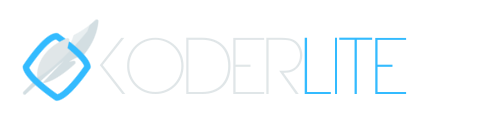
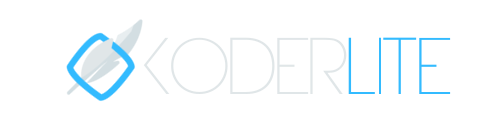
terminando slide 1

diff --git a/public/css/index.css b/public/css/index.css
@@ -1,3 +1,5 @@
+@import url('https://fonts.googleapis.com/css?family=Kavivanar|Bad+Script|Courgette|Kalam|Macondo|Raleway|Josefin+Sans');
+@import url('https://fonts.googleapis.com/css?family=Roboto:300,400,700');
 /*INICIO*/
 .init{
   height: 100vh;
@@ -24,18 +26,53 @@
 
 .sl_1_content h2{
   color:white;
+  font-family: 'Roboto';
+  font-size: 7em;
+  text-transform: uppercase;
+  /*font-weight: bold;*/
 }
 
 .sl_1_content h3{
   color:white;
+  font-family: 'Roboto';
+  font-size: 2em;
+  text-transform: uppercase;
+  padding-bottom: 0px;
+  margin-bottom: 0px;
+  margin-top: -20px;
+
 }
 
 .sl_1_content p{
   color:white;
+  font-family: 'Roboto';
+  font-size: 1.8em;
+  margin-top: 20px;
+  text-transform: uppercase;
+
+}
+.sl_1_content .sl_1_img{
+  margin-bottom: 20px;
+}
+.sl_1_content .sl_1_img img{
+    width: 100%;
+    height: auto;
+    max-width: 500px;
 }
 
-.sl_1_content .sl_img_1{
-    
+.long-shadow {
+  /*display: inline-block;*/
+  -webkit-box-sizing: content-box;
+  -moz-box-sizing: content-box;
+  box-sizing: content-box;
+  padding: 25px;
+  border: none;
+  font: normal 60px/1 "Fredoka One", Helvetica, sans-serif;
+
+  text-align: center;
+  -o-text-overflow: clip;
+  text-overflow: clip;
+  text-shadow: 3px 3px 0 #1a1b1c , 4px 4px 0 #1a1b1c , 5px 5px 0 #1a1b1c , 6px 6px 0 #1a1b1c , 7px 7px 0 #1a1b1c , 8px 8px 0 #1a1b1c , 9px 9px 0 #1a1b1c , 10px 10px 0 #1a1b1c , 11px 11px 0 #1a1b1c , 12px 12px 0 #1a1b1c , 13px 13px 0 #1a1b1c , 14px 14px 0 #1a1b1c , 15px 15px 0 #1a1b1c , 16px 16px 0 #1a1b1c , 17px 17px 0 #1a1b1c , 18px 18px 0 #1a1b1c , 19px 19px 0 #1a1b1c , 20px 20px 0 #1a1b1c ;
 }
 
 
@@ -61,7 +98,9 @@ nav{
 /* SERVICIOS clave => serv*/
 
 /*estilo de fuentes*/
-@import url('https://fonts.googleapis.com/css?family=Kavivanar|Bad+Script|Courgette|Kalam|Macondo|Raleway|Josefin+Sans');
+.font-roboto{
+  font-family: 'Roboto', sans-serif;
+}
 
 .font-raleway{
     font-family: 'Raleway', sans-serif;

diff --git a/public/css/plugins/slitslider/slider.css b/public/css/plugins/slitslider/slider.css
@@ -238,7 +238,7 @@
 	-ms-animation: roll 1s ease-out both, fadeIn 1s ease-out both;
 	animation: roll 1s ease-out both, fadeIn 1s ease-out both;
 }
-	.sl-trans-elems h2{
+	/*.sl-trans-elems h2{
 	-webkit-animation: moveUp 1s ease-in-out both;
 	-moz-animation: moveUp 1s ease-in-out both;
 	-o-animation: moveUp 1s ease-in-out both;
@@ -251,7 +251,7 @@
 	-o-animation: fadeIn 0.5s linear 0.5s both;
 	-ms-animation: fadeIn 0.5s linear 0.5s both;
 	animation: fadeIn 0.5s linear 0.5s both;
-}
+}*/
 .sl-trans-back-elems .deco{
 	-webkit-animation: scaleDown 1s ease-in-out both;
 	-moz-animation: scaleDown 1s ease-in-out both;
@@ -384,7 +384,7 @@
 	}
 
 	.init_slider .sl-slider h2 {
-		font-size: 36px;
+		font-size: 45px;
 	}
 
 	.init_slider .sl-slider blockquote {

diff --git a/resources/views/secciones/inicio.blade.php b/resources/views/secciones/inicio.blade.php
@@ -15,12 +15,14 @@
                     <div class="bg-img bg-img-1"></div>
                     <div class="sl_1_content">
                       <div class="text-center">
-                        <h2>Tranquilo</h2>
-                        <h3>Estas en</h3>
+                        <h2 class="long-shadow animated zoomIn">Bienvenido</h2>
+                        <h3 class="long-shadow animated zoomIn">Estas en</h3>
+                            <div class="animated fadeInUp sl_1_img">
+                              <img class="" src="imagenes/slider/sl_home/img_koderlite_shadow.png" alt="KoderLite">
+                            </div>
 
-                            <img class="sl_1_img" src="imagenes/slider/sl_home/img_koderlite.png" alt="KoderLite">
 
-                        <p>Tu sitio web en manos de profesionales</p>
+                        <p class="long-shadow animated zoomInUp">Tu sitio web en manos de profesionales</p>
                       </div>
 
                     </div>

diff --git a/resources/views/index.blade.php b/resources/views/index.blade.php
@@ -25,7 +25,7 @@
     @include('secciones.inicio')
 
     {{-- include seccion servicios --}}
-    @include('secciones.servicios')
+    {{-- @include('secciones.servicios') --}}
 
 
 
